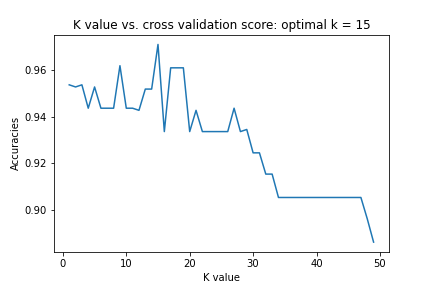
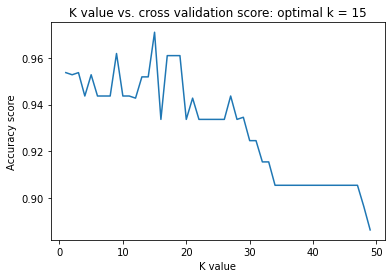
Fine-tune plotting and update README with additional detail

diff --git a/common_ML_algorithms/knn/plotKNN.py b/common_ML_algorithms/knn/plotKNN.py
@@ -8,25 +8,27 @@ def plotKNN(input_data, X_test, y_test, y_hat, optimal_k):
         
     ## create dataframe for visualization
     df = pd.DataFrame(data=np.c_[input_data['data'], input_data['target']], columns=input_data['feature_names'] + ['target'])
-    df_pred = pd.DataFrame(data=np.c_[X_test, y_hat], columns=input_data['feature_names'] + ['target'])
-   
+    pd.options.display.max_columns = None
+    df.info()
+    print(df.describe())
+    
     ## histograms
     fig, axs = plt.subplots(2, 2, figsize=(7, 7))
     sns.histplot(data=df, x=input_data.feature_names[0], bins=50, color="chartreuse", ax=axs[0, 0])
     sns.histplot(data=df, x=input_data.feature_names[1], bins=50, color="lawngreen", ax=axs[0, 1])
     sns.histplot(data=df, x=input_data.feature_names[2], bins=50, color="green", ax=axs[1, 0])
     sns.histplot(data=df, x=input_data.feature_names[3], bins=50, color="lime", ax=axs[1, 1])
+    plt.suptitle('Histograms of iris dataset features')
     fig.tight_layout()
-    plt.suptitle('Histograms of iris dataset features', y=1.05)
-    plt.savefig('knn_histograms.png')
+    plt.savefig('knn_histograms.png', bbox_inches='tight')
     plt.show()
     
     ## correlation matrix
     ax = sns.heatmap(df[input_data.feature_names].corr(), cmap="Greens", annot=True, square=True)
     ax.set_ylim(0, len(df[input_data.feature_names].corr()))
+    plt.title('Correlation matrix for iris dataset features', y=1.05)
     plt.tight_layout()
-    plt.suptitle('Correlation matrix for iris dataset features', y=1.05)
-    plt.savefig('knn_corr_matrix.png')
+    plt.savefig('knn_corr_matrix.png', bbox_inches='tight')
     plt.show()
     
     ## pairplots
@@ -34,12 +36,13 @@ def plotKNN(input_data, X_test, y_test, y_hat, optimal_k):
     df['target'][df["target"] == 1.0] = input_data.target_names[1]
     df['target'][df["target"] == 2.0] = input_data.target_names[2]
     sns.pairplot(df, hue="target", palette=['greenyellow','lime', 'darkgreen'], markers=["o", "s", "D"])
-    plt.suptitle('Pair plots for features of iris dataset', y=1.05)
-    plt.savefig('knn_pairplots.png')
+    plt.suptitle('Pair plots for features of iris dataset', y=1.025)
+    plt.savefig('knn_pairplots.png', bbox_inches='tight')
     plt.show()
     
     ## prediction pairplots -> evaluate accuracy
     y_hat[y_hat != y_test] = 3.0
+    df_pred = pd.DataFrame(data=np.c_[X_test, y_hat], columns=input_data['feature_names'] + ['target'])
 
     df_pred['target'][df_pred["target"] == 0.0] = input_data.target_names[0]
     df_pred['target'][df_pred["target"] == 1.0] = input_data.target_names[1]
@@ -47,6 +50,6 @@ def plotKNN(input_data, X_test, y_test, y_hat, optimal_k):
     df_pred['target'][df_pred["target"] == 3.0] = 'wrongly classified'
 
     sns.pairplot(df_pred, hue="target", palette=['greenyellow','lime', 'darkgreen', 'red'], markers=["o", "s", "D", "X"])
-    plt.suptitle('KNN results: k = '+str(optimal_k)+' with accuracy: '+str(metrics.accuracy_score(y_test, y_hat)), y=1.05)
-    plt.savefig('knn_pairplots_predicted.png')
+    plt.suptitle('KNN results: k = '+str(optimal_k)+' with accuracy: '+str(metrics.accuracy_score(y_test, y_hat)), y=1.025)
+    plt.savefig('knn_pairplots_predicted.png', bbox_inches='tight')
     plt.show()

diff --git a/common_ML_algorithms/knn/tuneHyperParameters.py b/common_ML_algorithms/knn/tuneHyperParameters.py
@@ -11,8 +11,8 @@ def tuneHyperParameters(X_train, y_train):
     plt.plot(k_values, k_scores)
     plt.title('K value vs. cross validation score: optimal k = '+str(optimal_k))
     plt.xlabel('K value')
-    plt.ylabel('Accuracies')
-    plt.savefig('knn_k_values.png')
+    plt.ylabel('Accuracy score')
+    plt.savefig('knn_k_values.png', bbox_inches='tight')
     plt.show()
     
     return optimal_k

diff --git a/common_ML_algorithms/README.md b/common_ML_algorithms/README.md
@@ -22,6 +22,43 @@ sci-kit learn implementation using iris dataset
 
 ### Descriptive visualizations of dataset
 
+Print the descriptive statistics on the dataset:
+
+```python
+df.info()
+```
+
+```console
+Data columns (total 5 columns):
+ #   Column             Non-Null Count  Dtype  
+---  ------             --------------  -----  
+ 0   sepal length (cm)  150 non-null    float64
+ 1   sepal width (cm)   150 non-null    float64
+ 2   petal length (cm)  150 non-null    float64
+ 3   petal width (cm)   150 non-null    float64
+ 4   target             150 non-null    float64
+dtypes: float64(5)
+memory usage: 6.0 KB
+```
+
+```python
+print(df.describe())
+```
+
+```console
+       sepal length (cm)  sepal width (cm)  petal length (cm)  petal width (cm)      target
+count         150.000000        150.000000         150.000000        150.000000  150.000000
+mean            5.843333          3.057333           3.758000          1.199333    1.000000
+std             0.828066          0.435866           1.765298          0.762238    0.819232
+min             4.300000          2.000000           1.000000          0.100000    0.000000
+25%             5.100000          2.800000           1.600000          0.300000    0.000000
+50%             5.800000          3.000000           4.350000          1.300000    1.000000  
+75%             6.400000          3.300000           5.100000          1.800000    2.000000   
+max             7.900000          4.400000           6.900000          2.500000    2.000000
+```
+
+and visualize the distributions and relationships between features in the dataset:
+
 |![Histograms](./knn/knn_histograms.png) |
 |:--:| 
 | *Histograms* |
@@ -36,7 +73,7 @@ sci-kit learn implementation using iris dataset
 
 ### Tune Hyperparameters
 
-| ![k values](./knn/k_values.png) |
+| ![k values](./knn/knn_k_values.png) |
 |:--:| 
 | *k values vs. accuracy* |
 
